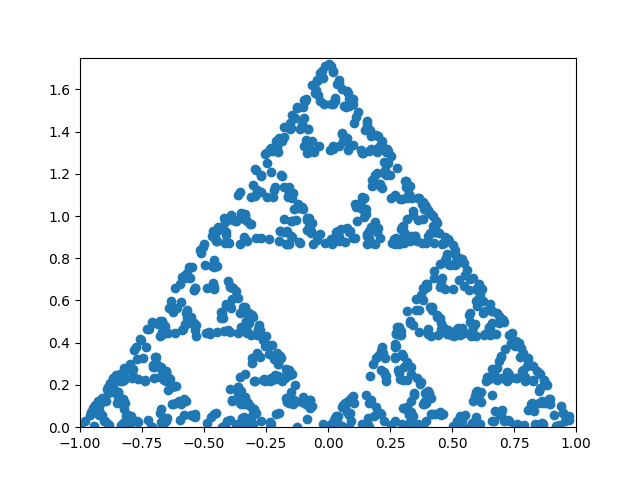
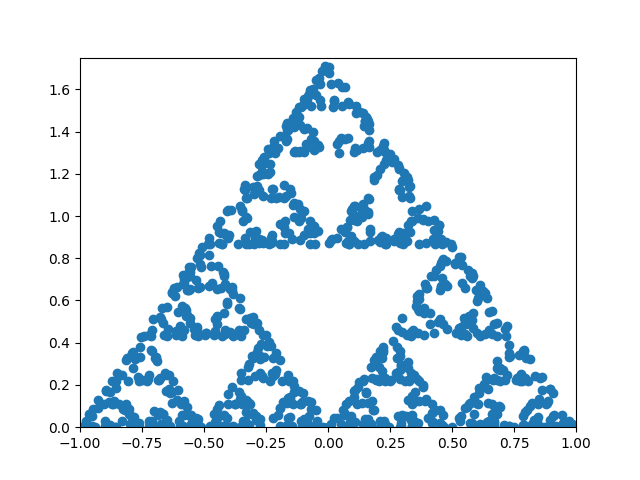
Adding compression ratio.

Changed region(s): [[0.125, 0.125, 0.9062, 0.9062]]

diff --git a/src/sierpinski_n_gon.py b/src/sierpinski_n_gon.py
@@ -4,11 +4,11 @@ import random
 import matplotlib.pyplot as plt
 
 
-def sierpinski_m_gon(n, m, fig_path):
+def sierpinski_m_gon(n, m, fig_path, compression_ratio):
     v = [[math.sin(i * math.pi / 3.0), math.cos(i * math.pi / 3.0)] for i in range(m)]
 
     def w(x, j):
-        return [(x[i] + (m - 1) * v[j][i]) / float(m) for i in range(2)]
+        return [compression_ratio * x[i] + (1.0 - compression_ratio) * v[j][i] for i in range(2)]
 
     xs = [0.0] * n
     ys = [0.0] * n
@@ -18,6 +18,6 @@ def sierpinski_m_gon(n, m, fig_path):
         ys[i] = x[1]
         r = random.randint(0, m - 1)
         x = w(x, r)
-    plt.scatter(xs[4:], ys[4:], 1)
+    plt.scatter(xs[20:], ys[20:], 1)
     plt.savefig(fig_path)
     plt.show()

diff --git a/src/sierpinski_hexagon.py b/src/sierpinski_hexagon.py
@@ -4,4 +4,5 @@ from sierpinski_n_gon import sierpinski_m_gon
 
 if __name__ == "__main__":
     n = int(sys.argv[1])
-    sierpinski_m_gon(n, 6, '../img/sierpinski_hexagon.png')
+    compression_ratio = float(sys.argv[2])
+    sierpinski_m_gon(n, 6, '../img/sierpinski_hexagon.png', compression_ratio)

diff --git a/src/sierpinski_triangle.py b/src/sierpinski_triangle.py
@@ -33,7 +33,7 @@ def main(n):
             x = w_2(x)
         else:
             x = w_3(x)
-    plt.scatter(xs, ys)
+    plt.scatter(xs, ys, 1)
     plt.savefig('../img/sierpinski_triangle.png')
     plt.show()
 
